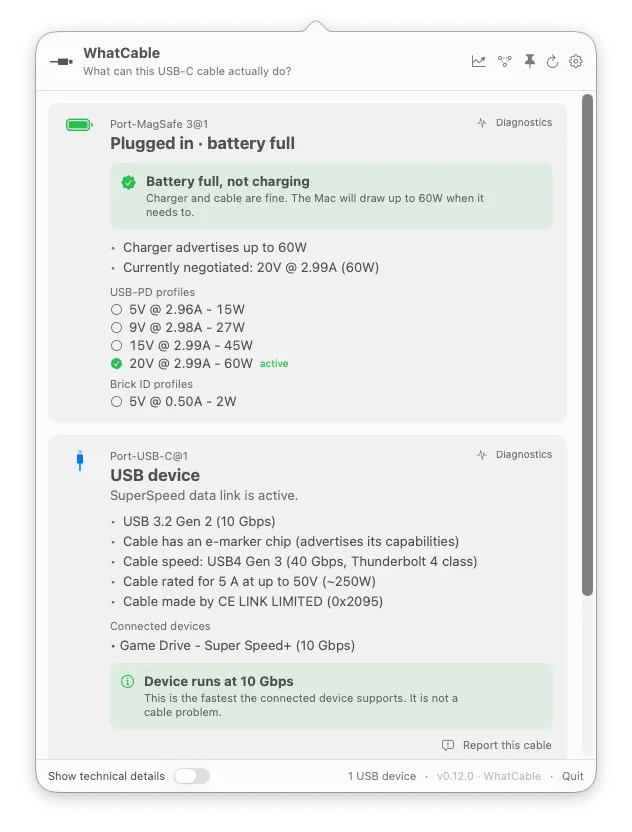
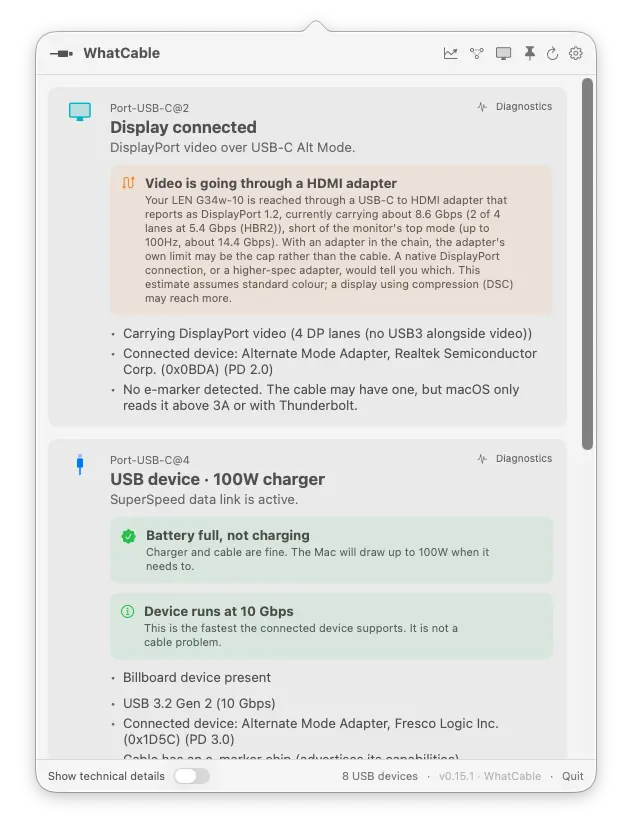
Mirror from private (307e5f9)

diff --git a/docs/index.html b/docs/index.html
@@ -361,7 +361,7 @@
   "description": "Why is my MacBook charging slowly? WhatCable shows USB-C cable speed, charging power, and e-marker data in plain English. Free Mac app for Apple Silicon.",
   "url": "https://www.whatcable.uk",
   "downloadUrl": "https://github.com/darrylmorley/whatcable/releases/latest/download/WhatCable.zip",
-  "softwareVersion": "0.12.1",
+  "softwareVersion": "0.15.1",
   "author": { "@type": "Person", "name": "Darryl Morley", "url": "https://github.com/darrylmorley" },
   "license": "https://opensource.org/licenses/MIT",
   "keywords": [
@@ -959,7 +959,7 @@
       </div>
     </div>
     <div class="hero-shot">
-      <img src="/screenshot.webp?v=0.12.1" alt="WhatCable menu bar popover showing USB-C port diagnostics, with the Plugged in / battery full state, charger PDO list, and a cable identified from the bundled cable database">
+      <img src="/screenshot.webp?v=0.15.1" alt="WhatCable menu bar popover showing USB-C port diagnostics: a monitor connected through a USB-C to HDMI adapter, with WhatCable explaining the adapter is holding it below the display's top mode, and a 100W charger with the battery full">
     </div>
   </div>
 </header>